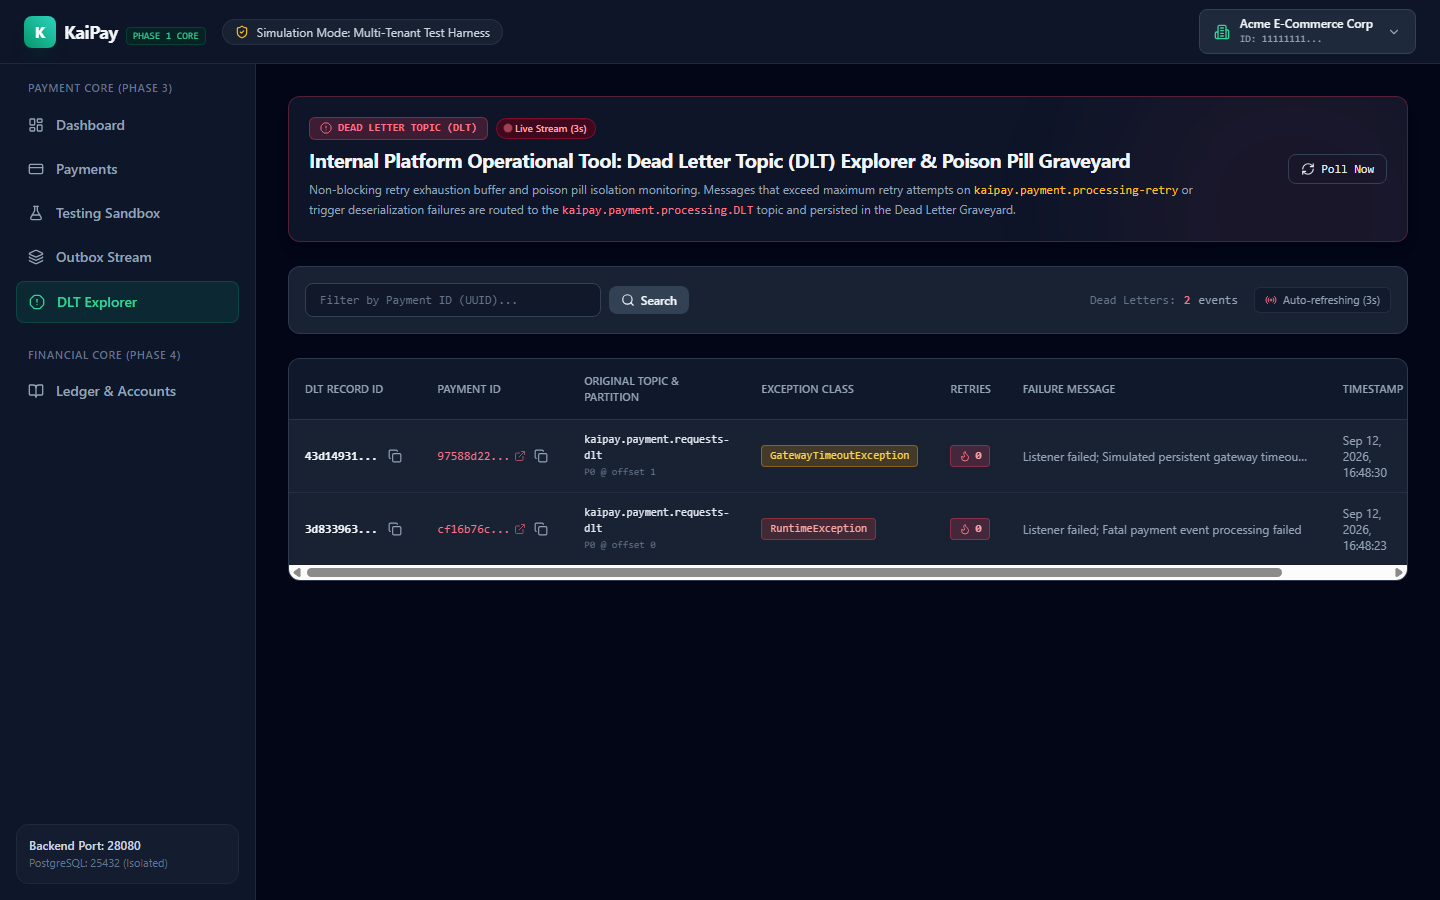
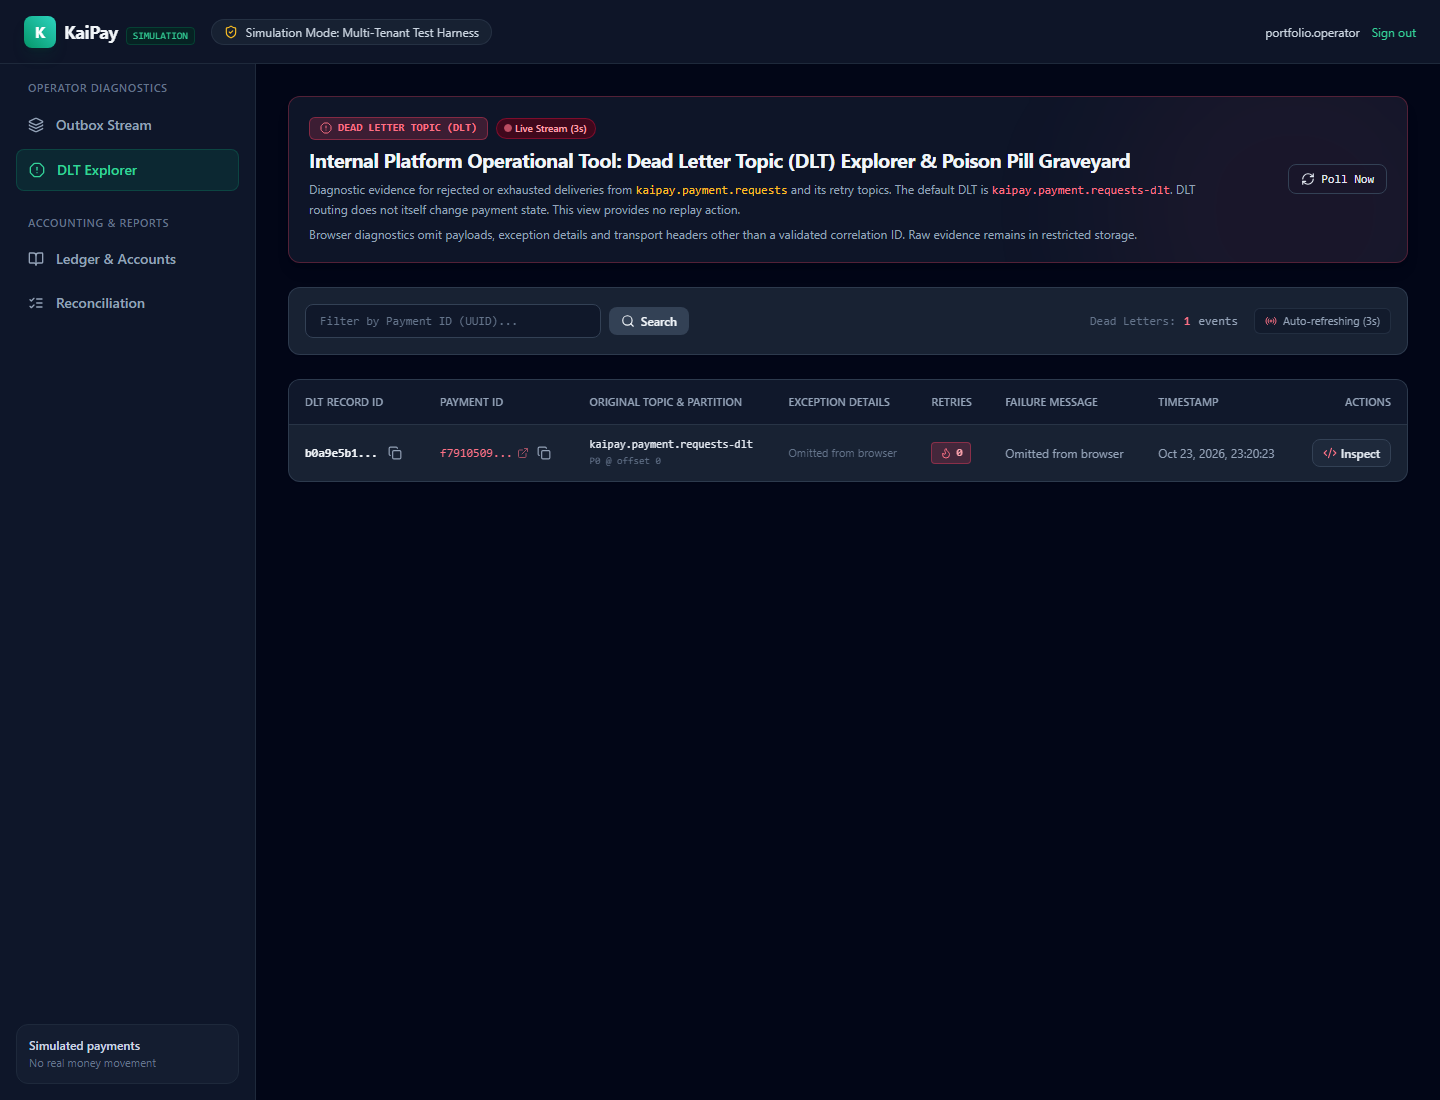
docs: refresh portfolio with current synthetic app screenshots

diff --git a/README.md b/README.md
@@ -263,35 +263,47 @@ FINAL LIFECYCLE RECONCILIATION
 
 ## 7. Visual Portfolio Assets
 
-These committed screenshots show an **earlier local simulation**, before current authentication, role separation, MYR labels, diagnostic privacy and webhook/reconciliation pages. USD values, phase labels, combined navigation, payload/exception displays and topic captions are historical, not the current contract. Current new activity uses MYR. No private demonstration screenshots or credentials are included; use the [current local walkthrough](docs/local-demo.md) for role-specific behavior.
+Fresh browser captures of the real local application at source revision [446fd76](https://github.com/KAIYI7/KaiPay/commit/446fd763cc0fb6c0cca2a6fdf0da81b2c01c2b3f), using a consistent 1440 × 1100 viewport. All identities, identifiers and financial data are disposable synthetic examples. Merchant transactions below were executed through authenticated application APIs; the reconciliation mismatch is a separate, deliberately constructed fixture. No interface content or financial results were altered for the images. Hosting remains postponed and external webhook dispatch remains disabled. See the [local walkthrough](docs/local-demo.md).
 
-### 7.1. Financial Analytics & Operational Telemetry Dashboard
+### 7.1. Merchant MYR Dashboard
 ![KaiPay Financial Overview Dashboard](docs/screenshots/dashboard.png)
-*Historical dashboard: synthetic balance, volume, fees and recent payments. Current merchants see their assigned context; operator diagnostics use a separate role. The balance is a ledger projection, with no payout facility.*
+*Five application-created synthetic payments in the assigned merchant workspace. Two captures and a partial refund produce RM164.37 merchant balance, RM209.90 captured volume, RM5.53 net fees and RM40.00 refunds. These are simulated ledger projections, with no payout facility.*
 
 ---
 
 ### 7.2. Payment State Machine & Lifecycle Management
 ![KaiPay Payment Lifecycle & Idempotency Stepper](docs/screenshots/payment-details.png)
-*Historical lifecycle view: creation, authorization, capture and partial refund, plus stored request identity and refund history. Authorization is simulated and capture records local accounting; neither is bank settlement.*
+*An actual local application flow: RM120.00 simulated authorization and capture, followed by a completed RM40.00 partial refund with RM80.00 remaining. The displayed customer UUID, request key and simulator reference are synthetic. Capture/refund records local accounting, not bank settlement.*
 
 ---
 
 ### 7.3. Double-Entry Financial Ledger & Balanced Journals
 ![KaiPay Double-Entry Ledger Explorer](docs/screenshots/double-entry-ledger.png)
-*Historical ledger explorer: capture/refund journals and balance projections. Journal balance is one invariant, separate from the operator accounting consistency audit.*
+*The RM40.00 refund journal from that flow: RM38.84 merchant-liability debit plus RM1.16 fee-revenue debit equals RM40.00 customer-receivable credit. The journal balances; this view is separate from the operator-only accounting consistency audit.*
 
 ---
 
 ### 7.4. Transactional Outbox Stream Monitor
 ![KaiPay Transactional Outbox Buffer Monitor](docs/screenshots/outbox-stream.png)
-*Historical outbox monitor. Current ADMIN views expose pending, published and quarantined status with retry timing; raw payloads and error details are omitted. Row locks are coordinated by the backend, not visualized here.*
+*Separate ADMIN diagnostics show eight published initiation, capture and refund events from the synthetic application operations. Raw payloads and error details are omitted. Publication is asynchronous and may duplicate; the screenshot does not establish exactly-once delivery or throughput.*
 
 ---
 
 ### 7.5. Dead Letter Topic (DLT) & Poison Pill Graveyard
 ![KaiPay Dead Letter Topic Explorer](docs/screenshots/dlt-explorer.png)
-*Historical DLT inspector. Current ADMIN views retain transport metadata and validated correlation IDs while omitting payloads and exception details. DLT evidence does not itself change payment state or offer replay.*
+*One real local diagnostic from the RM6,666.00 definitive-no-acceptance simulator scenario. The application finalized `FAILED` before diagnostic DLT routing; the DLT itself did not change payment state. Browser payload/exception omissions remain visible. No replay action is offered.*
+
+---
+
+### 7.6. Authorization Reconciliation — Constructed Mismatch
+![Stored authorization report showing a constructed synthetic request mismatch](docs/screenshots/reconciliation.png)
+*A separate merchant named “Synthetic Mismatch Fixture” contains a deliberately inserted RM50.01 payment versus RM50.00 simulator request, with no initiation event. The actual operator CLI produced this stored `REQUEST_MISMATCH` report; the UI displays its evidence without repair. This fixture illustrates detection, not a failure observed in the application-created payments or a capture/refund accounting assessment.*
+
+---
+
+### 7.7. Webhooks — Unenrolled Delivery History
+![Merchant webhook page with no enrolled endpoint and empty delivery history](docs/screenshots/webhooks.png)
+*The real merchant view shows no enrolled endpoint, no historical backfill and an empty delivery history. Runtime dispatch was separately verified disabled, with zero endpoints, deliveries or attempts. This image demonstrates the unenrolled view, not successful webhook delivery.*
 
 ---
 
@@ -432,7 +444,7 @@ KaiPay/
 │   ├── double-entry-ledger.md           # Accounting proofs and balance projections
 │   ├── engineering-benchmark.md         # Architectural tradeoffs and improvement proposals
 │   ├── engineering-journal-...md        # Engineering post-mortem & distributed systems lessons
-│   └── screenshots/                     # Historical local simulation UI screenshots
+│   └── screenshots/                     # Current synthetic merchant/admin browser captures
 ├── .env.example                         # Environment variable configuration template
 ├── .gitignore                           # Git hygiene configuration
 └── LICENSE                              # MIT License

diff --git a/docs/local-demo.md b/docs/local-demo.md
@@ -49,6 +49,6 @@ Signed webhook delivery has isolated local test coverage for signatures, retries
 
 A supervised local session has exercised merchant creation/capture/refund, role-separated diagnostics and stored authorization reports. The steps above describe a repeat procedure, not a hosted service or a promise that every failure class has been demonstrated in a browser. Component tests with mocked HTTP, real PostgreSQL/Kafka integration tests and human observation establish different kinds of evidence; see [verification sources](../README.md#9-automated-testing-strategy).
 
-The [committed screenshots](../README.md#7-visual-portfolio-assets) are historical illustrations with obsolete currency, navigation and diagnostic details. Current private acceptance captures, logs and engineering records are not public assets. When presenting your own run, use synthetic data and avoid credentials, raw payloads, private references and unrelated browser content.
+The [committed screenshots](../README.md#7-visual-portfolio-assets) show the current application in a fresh disposable synthetic environment, with source revision and scenario boundaries identified in their captions. The reconciliation mismatch is deliberately constructed in a separate fixture merchant; other illustrated payment results come from actual application operations. Previous private acceptance captures, logs and engineering records remain unpublished. When presenting your own run, use synthetic data and avoid credentials, raw payloads, private references and unrelated browser content.
 
 Sign out and stop only the demonstration processes/resources you created. Dispose of a synthetic database only after checking its ownership; never reset an existing volume or financial dataset as a demo cleanup shortcut. No hosting, tunnel, external dispatch or data repair is part of this walkthrough.
